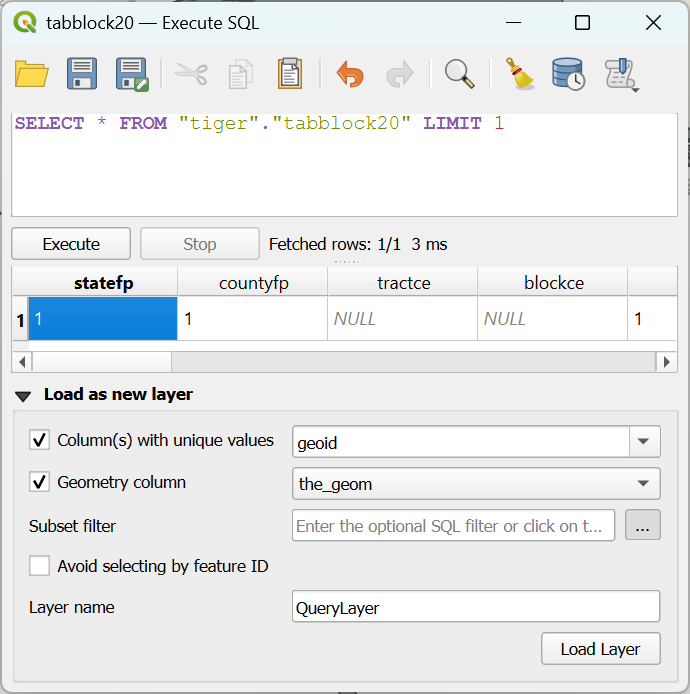
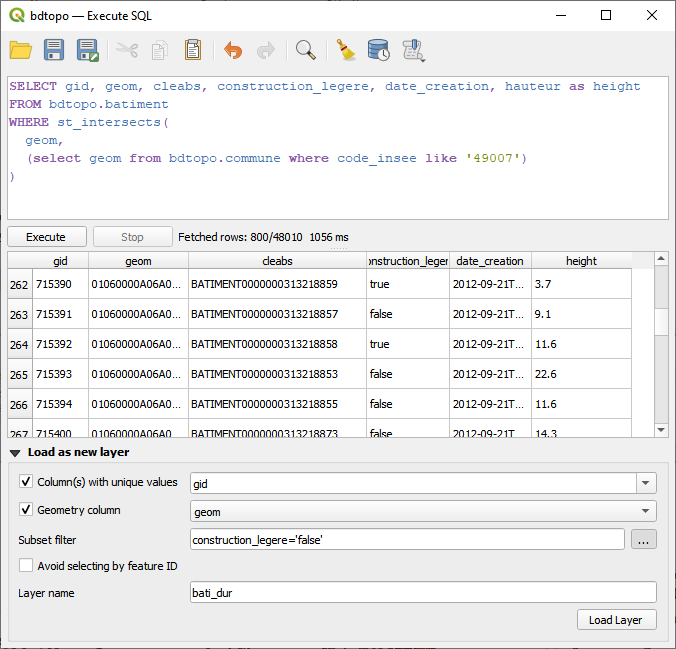
Add more details to Execute SQL dialog

diff --git a/docs/user_manual/managing_data_source/opening_data.rst b/docs/user_manual/managing_data_source/opening_data.rst
@@ -1311,7 +1311,7 @@ QGIS allows you to load a subset of a table, as a result of an SQL query
 that may involve one or more tables from the database.
 
 From the :guilabel:`Browser` panel, right-click on your database, schema or table
-and you get an `Execute SQL...` entry in your context menu.
+and you get an `Execute SQL...` entry in your contextual menu.
 It opens a window with a central text box widget where you can write SQL queries.
 
 .. _figure_execute_sql_queries:
@@ -1326,13 +1326,13 @@ At the top of the dialog, a toolbar provides a set of tools
 to create, store and manipulate your queries:
 
 * |fileOpen| :sup:`Open Queries...`: fills the text editor widget
-  with contents from an exiting :file:`.sql` file
+  with contents from an existing :file:`.sql` file
 * |fileSave| :sup:`Save Queries...` and |fileSaveAs| :sup:`Save Queries as...`
   help you store the written query to a :file:`.sql` file
 * Statements of the query can be adjusted using the |editCut| :sup:`Cut`,
   |editCopy| :sup:`Copy` and |editPaste| :sup:`Paste` buttons.
   Likewise, you can |undo| :sup:`Undo` or |redo| :sup:`Redo` your changes.
-* The |search| :sup:`Find & Replace` enables a the bottom of the dialog
+* The |search| :sup:`Find & Replace` enables, at the bottom of the dialog,
   a widget allowing to look for a particular string in your SQL code.
   The search can be case sensitive, affect partial or whole word,
   rely on a regular expression.
@@ -1350,11 +1350,11 @@ to create, store and manipulate your queries:
 
   .. _figure_history_sql_queries:
 
-  .. figure:: img/executesqlwindow.png
+  .. figure:: img/executesql_history.png
      :align: center
      :width: 30 em
 
-   Executing SQL queries in the Execute SQL window ???
+     History of the executed SQL queries
 
   Hover over an entry and the full query is displayed over, as a tooltip.
   Right-click and you can either:
@@ -1367,7 +1367,7 @@ to create, store and manipulate your queries:
   When a query is selected, the full query is displayed in the lower part of the dialog.
   You can interact with the text, copying all or part of it.
 
-* As previously seen, queries can be saved as an :file:`.sql` file stored on disk.
+* As previously mentioned, queries can be saved as an :file:`.sql` file stored on disk.
   Using the |storedqueries| :sup:`Store Current Query` button, they can also be stored:
 
   * In the active :guilabel:`User Profile`, in the associated :file:`QGIS3.ini` file,
@@ -1375,9 +1375,21 @@ to create, store and manipulate your queries:
   * or as part of the :guilabel:`Current Project`.
 
 In the central part of the :guilabel:`Execute SQL` dialog, you build your query
-using the SQL syntax supported by the underlying database.
-Editing tools to select, cut, copy, undo, redo,... are available as well
+using the SQL syntax supported by the underlying provider (e.g., OGR_, GeoPackage_, PostgreSQL_).
+
+By default, if opened from a layer entry, a sample SQL query is provided.
+Editing tools to select, cut, copy, paste, undo and redo are available as well
 from the contextual menu.
+
+.. todo: Provide some examples of commands, on various providers,
+  single layer, joins, ... ?
+
+.. tip:: **Finding the right SQL syntax for your dataset**
+
+ To find the appropriate SQL dialect for your dataset,
+ press the :guilabel:`...` button next to the :guilabel:`Subset filter` option
+ in the bottom part of the dialog.
+
 
 When ready, pressing the :guilabel:`Execute` button below the text area
 will try to run the query.
@@ -1393,13 +1405,16 @@ The copied data is available as a formatted table.
 This allows you to paste the data into other applications,
 such as spreadsheet where it will show up as a table.
 
-The returned table can be loaded in QGIS expanding the :guilabel:`Lod as new layer` group
-and configuring parameters:
+The returned table can be loaded in QGIS expanding the :guilabel:`Load as new layer` group
+and configuring parameters (their availability depends on the layer provider):
 
 * :guilabel:`Column(s) with unique values` to indicate primary key of the data,
-* :guilabel:`Geometry column`: check the box to load the  layer as a spatial one,
+* :guilabel:`Geometry column`: check the box to load the layer as a spatial one,
   and indicate the geometry field name
-* :guilabel:`Subset filter`
+* :guilabel:`Subset filter`: allows to filter the results using a ``WHERE`` clause.
+  It can be written in the text box, or built using the :ref:`Query builder <vector_query_builder>`
+  after you pressed :guilabel:`...`.
+  Make sure to use fields that are available in the SQL layer.
 * :guilabel:`Avoid selecting by feature ID`
 * :guilabel:`Layer name` in the project
 
@@ -1786,6 +1801,9 @@ You can also choose to :guilabel:`Save Connection` to an XML file
 or :guilabel:`Load Connection` from an XML file.
 
 .. _GeoCSV specification: https://giswiki.ch/GeoCSV#CSVT_file_format_specification
+.. _GeoPackage: https://gdal.org/en/stable/user/sql_sqlite_dialect.html
+.. _OGR: https://gdal.org/en/stable/user/ogr_sql_dialect.html
+.. _PostgreSQL: https://postgresql.org/docs/current/sql-expressions.html
 
 
 .. Substitutions definitions - AVOID EDITING PAST THIS LINE
